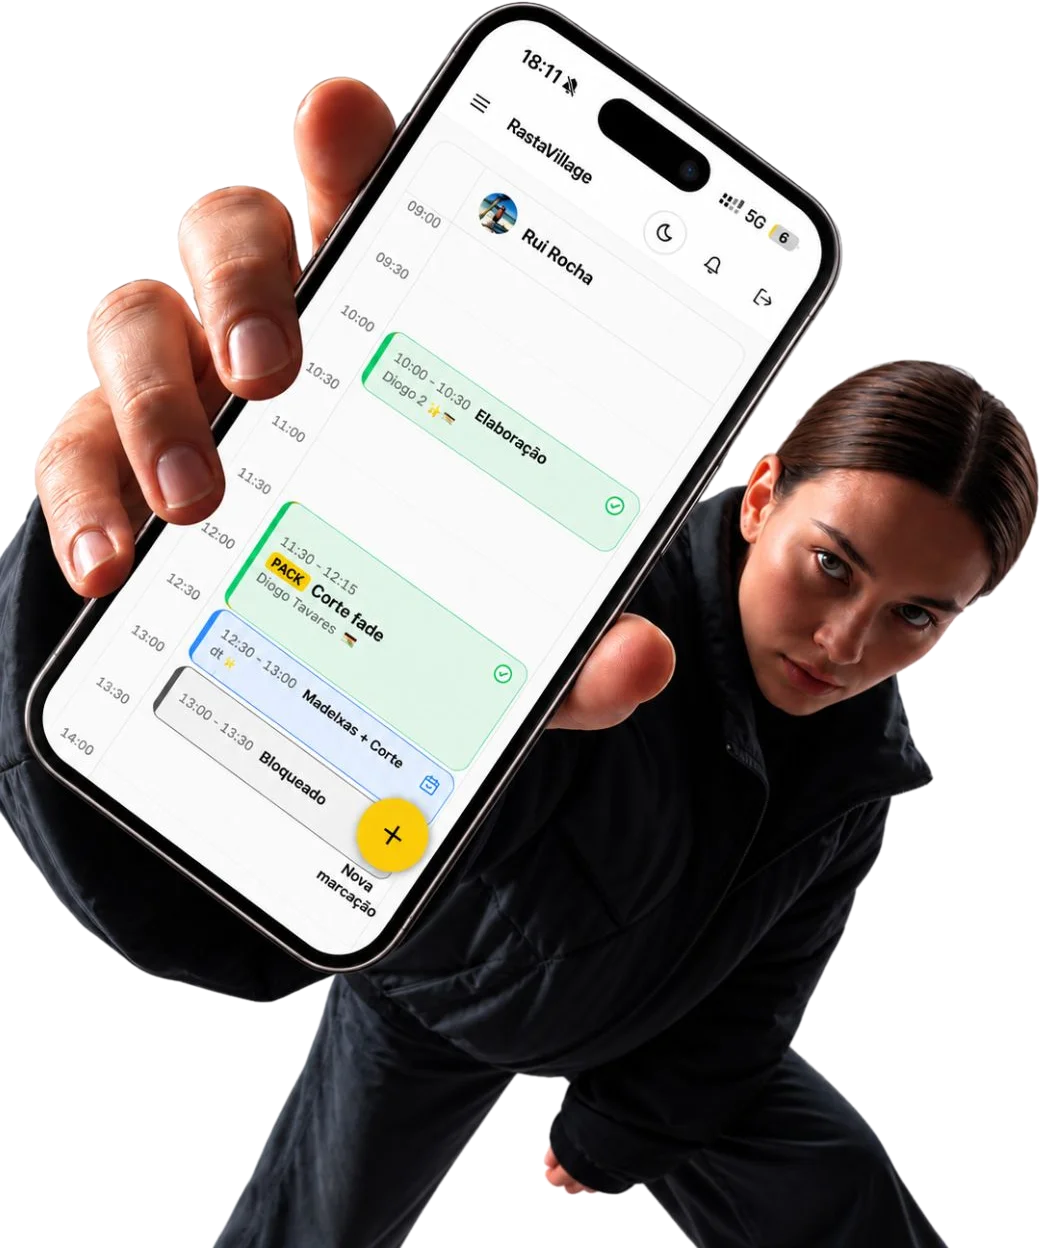
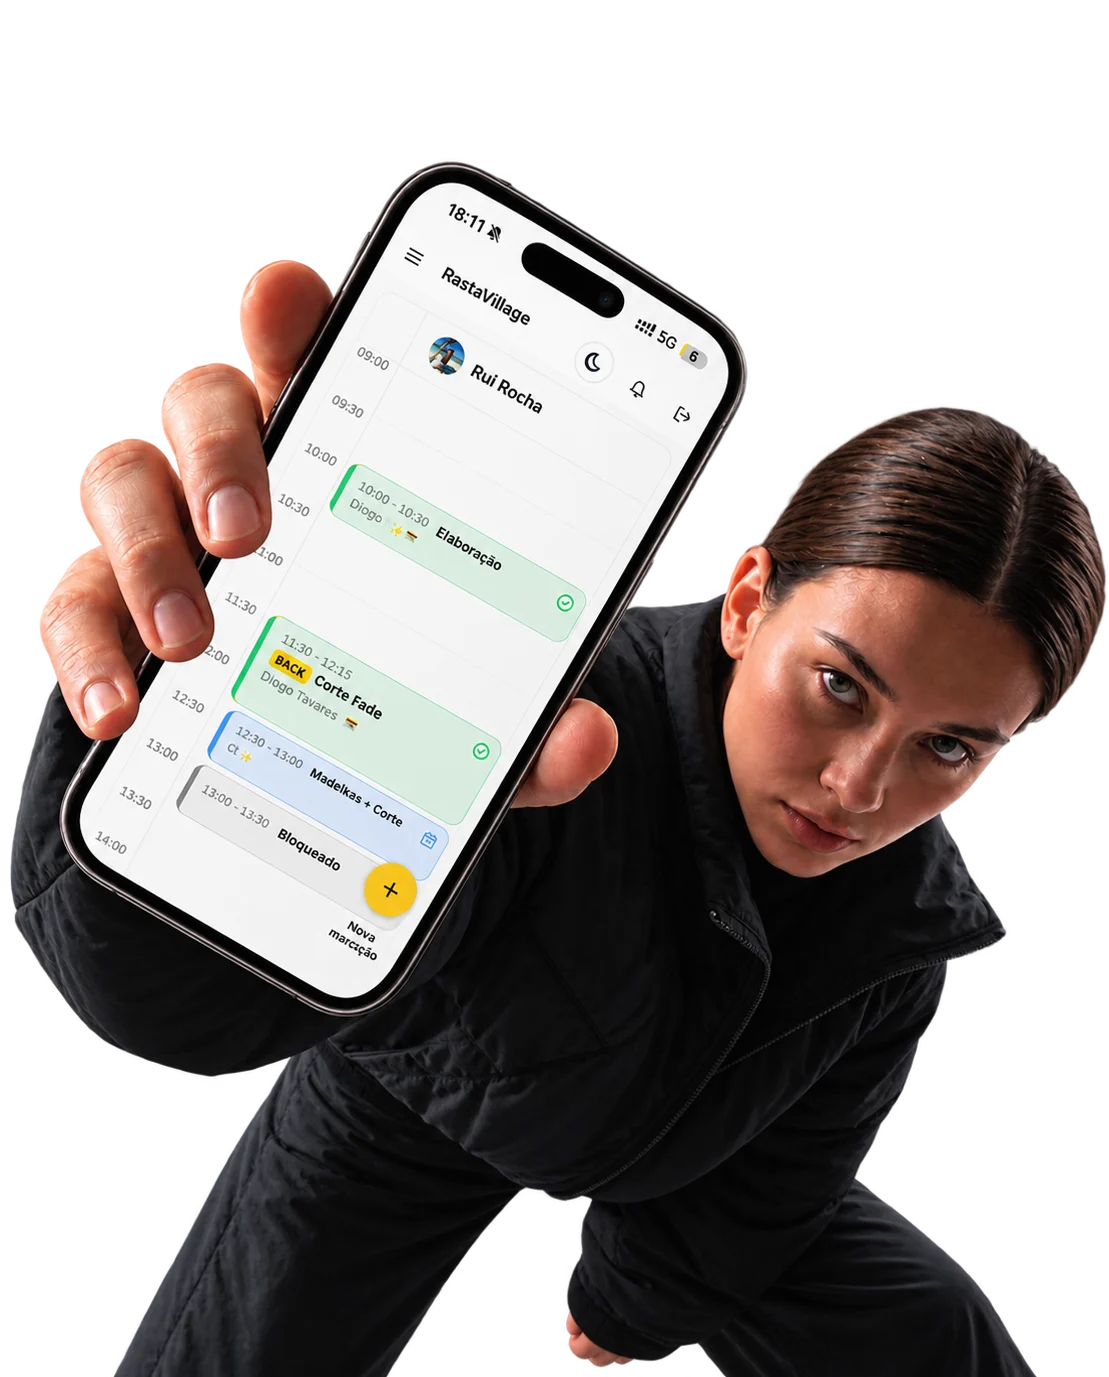
Começar e página inicial: sem saltos, sem repetições, a fotografia assente na linha
- /comecar: escolher o tipo volta ao topo do ecrã seguinte; «Dois tipos» pergunta os dois ali mesmo, por baixo dos cartões; ?tipo=misto (botão «Criar a conta com dois tipos») chega com essa pergunta aberta e à vista.
- Tirado o que se repetia (o +50 % três vezes, «Podes escolher outro», a garantia repetida no passo da conta) e o que já não era verdade (link de confirmação por email, «um mês à experiência»).
- Fotografia nova, recortada; a secção acaba nas pernas, em cima da linha dos Preços.
- Preços: três parágrafos por baixo dos dois tipos passam a uma linha.

Claude-Session: https://claude.ai/code/session_01ESiyGJ3vPYy4diqd7vefik

diff --git a/src/pages/Comecar.jsx b/src/pages/Comecar.jsx
@@ -1,8 +1,8 @@
-import React, { useMemo, useState } from 'react';
+import React, { useEffect, useMemo, useState } from 'react';
 import { useSearchParams, Link } from 'react-router-dom';
 import { ArrowRight, ArrowLeft, Check, Mail, AlertTriangle } from 'lucide-react';
 import Seo from '@/components/Seo';
-import { PLANOS, DESCONTO_ANUAL, ADICIONAL_SEGUNDO_NICHO_TEXTO } from '@/lib/seo';
+import { PLANOS, DESCONTO_ANUAL } from '@/lib/seo';
 import { VERSAO_ACORDO } from '@/lib/seo';
 import { supabase, temSupabase } from '@/lib/supabase';
 import PorqueConvecta, { textoRespostas } from '@/components/PorqueConvecta';
@@ -65,7 +65,7 @@ const TIPOS_NEGOCIO = [
   { v: 'cabeleireiro', l: 'Cabeleireiro', d: 'Cor, madeixas, brushing' },
   { v: 'unhas', l: 'Unhas, sobrancelhas e pestanas', d: 'Gel, manicure, extensões' },
   { v: 'estetica', l: 'Estética', d: 'Pele, massagens, depilação' },
-  { v: 'misto', l: 'Dois tipos no mesmo espaço', d: `Barbearia + estética, por exemplo · o segundo tipo é ${ADICIONAL_SEGUNDO_NICHO_TEXTO}` },
+  { v: 'misto', l: 'Dois tipos no mesmo espaço', d: 'Barbearia + estética, por exemplo' },
 ];
 
 const campo = {
@@ -107,12 +107,24 @@ export default function Comecar() {
   );
 
   const [barbearia, setBarbearia] = useState({ nome: '', telefone: '', morada: '', nif: '' });
-  const [tipo, setTipo] = useState('barbearia');
+  // ?tipo=misto (o botão «Criar a conta com dois tipos») chega com o misto
+  // escolhido e a pergunta «Quais são os dois?» aberta.
+  const [tipo, setTipo] = useState(params.get('tipo') === 'misto' ? 'misto' : 'barbearia');
   // Os dois lados de um espaço misto (tipo === 'misto').
   const [lados, setLados] = useState(['barbearia', 'estetica']);
   const misto = tipo === 'misto';
+  // Quem vem do botão «Criar a conta com dois tipos» vê logo a pergunta dos dois lados.
+  useEffect(() => {
+    if (params.get('tipo') !== 'misto') return;
+    const t = setTimeout(() => document.getElementById('dois-lados')?.scrollIntoView({ behavior: 'smooth', block: 'center' }), 250);
+    return () => clearTimeout(t);
+  }, []);
   const escolherLado = v => setLados(l => (l.includes(v) ? l.filter(x => x !== v) : [...l, v].slice(-2)));
-  const [tipoEscolhido, setTipoEscolhido] = useState(false);
+  const [tipoEscolhido, setTipoEscolhidoCru] = useState(false);
+  // Trocar de ecrã dentro do passo 1 (tipo → pessoas) volta ao topo: sem
+  // isto, quem tocava num cartão em baixo caía a meio do ecrã seguinte,
+  // com a pergunta lá em cima, fora de vista (12/10/2026).
+  const setTipoEscolhido = v => { setTipoEscolhidoCru(v); window.scrollTo?.({ top: 0, behavior: 'smooth' }); };
   const [conta, setConta] = useState({ nome: '', email: '', telefone: '', password: '' });
   // Aceitação dos Termos, da Privacidade e do acordo RGPD (art. 28.º).
   // Tem de ser um gesto da pessoa — uma caixa por marcar, não um texto.
@@ -429,21 +441,44 @@ export default function Comecar() {
             </p>
             <div style={{ display: 'grid', gridTemplateColumns: 'repeat(auto-fit, minmax(240px, 1fr))', gap: 12 }}>
               {TIPOS_NEGOCIO.map(t => (
-                <button key={t.v} type="button"
+                <button key={t.v} type="button" aria-pressed={misto && t.v === 'misto'}
                   onClick={() => {
-                    setTipo(t.v); setTipoEscolhido(true);
+                    setTipo(t.v);
                     try { window.trackEvent?.('comecar_tipo', { tipo: t.v }); } catch { /* sem analytics */ }
+                    // O misto ainda tem de dizer quais são os dois; os outros seguem já.
+                    if (t.v !== 'misto') setTipoEscolhido(true);
                   }}
                   style={{
                     textAlign: 'left', padding: '18px 18px', borderRadius: 14, cursor: 'pointer',
-                    fontFamily: 'inherit', border: '1px solid var(--cv-linha)', background: 'var(--cv-card)',
-                    color: 'var(--cv-ink)', display: 'flex', flexDirection: 'column', gap: 4, minHeight: 84,
+                    fontFamily: 'inherit', background: 'var(--cv-card)', color: 'var(--cv-ink)',
+                    border: `1px solid ${misto && t.v === 'misto' ? 'var(--cv-amarelo)' : 'var(--cv-linha)'}`,
+                    display: 'flex', flexDirection: 'column', gap: 4, minHeight: 84,
                   }}>
                   <span style={{ fontSize: 18, fontWeight: 700 }}>{t.l}</span>
                   <span style={{ fontSize: 14, opacity: .7 }}>{t.d}</span>
                 </button>
               ))}
             </div>
+            {misto && (
+              <div id="dois-lados" style={{ scrollMarginTop: 120, marginTop: 16, padding: 18, borderRadius: 14, border: '1px solid var(--cv-amarelo)', background: 'var(--cv-card)' }}>
+                <div style={{ fontSize: 16, fontWeight: 700, marginBottom: 12 }}>Quais são os dois?</div>
+                <div style={{ display: 'flex', flexWrap: 'wrap', gap: 8 }}>
+                  {TIPOS_NEGOCIO.filter(t => t.v !== 'misto').map(t => {
+                    const on = lados.includes(t.v);
+                    return (
+                      <button key={t.v} type="button" onClick={() => escolherLado(t.v)} aria-pressed={on}
+                        style={{ padding: '10px 14px', borderRadius: 999, cursor: 'pointer', fontFamily: 'inherit', fontSize: 14, fontWeight: on ? 700 : 500,
+                          border: `1px solid ${on ? 'var(--cv-amarelo)' : 'var(--cv-linha)'}`, background: on ? 'rgba(232,185,35,.14)' : 'transparent', color: 'var(--cv-ink)' }}>
+                        {on ? '✓ ' : ''}{t.l}
+                      </button>
+                    );
+                  })}
+                </div>
+                <Botao onClick={() => lados.length === 2 && setTipoEscolhido(true)} disabled={lados.length !== 2} style={{ marginTop: 16 }}>
+                  Continuar <ArrowRight size={17} />
+                </Botao>
+              </div>
+            )}
           </section>
         )}
 
@@ -453,33 +488,15 @@ export default function Comecar() {
             <button type="button" onClick={() => setTipoEscolhido(false)}
               style={{ background: 'none', border: 0, padding: 0, margin: '0 0 14px', cursor: 'pointer',
                 fontFamily: 'inherit', fontSize: 14, color: 'var(--cv-ink-2)', textDecoration: 'underline' }}>
-              {(TIPOS_NEGOCIO.find(t => t.v === tipo) || TIPOS_NEGOCIO[0]).l} · mudar
+              {misto
+                ? lados.map(v => TIPOS_NEGOCIO.find(t => t.v === v)?.l).filter(Boolean).join(' + ')
+                : (TIPOS_NEGOCIO.find(t => t.v === tipo) || TIPOS_NEGOCIO[0]).l} · mudar
             </button>
-            {misto && (
-              <div style={{ margin: '0 0 26px', padding: 16, borderRadius: 14, border: '1px solid var(--cv-linha)', background: 'var(--cv-card)' }}>
-                <div style={{ fontSize: 15, fontWeight: 700, marginBottom: 10 }}>Quais são os dois tipos?</div>
-                <div style={{ display: 'flex', flexWrap: 'wrap', gap: 8 }}>
-                  {TIPOS_NEGOCIO.filter(t => t.v !== 'misto').map(t => {
-                    const on = lados.includes(t.v);
-                    return (
-                      <button key={t.v} type="button" onClick={() => escolherLado(t.v)} aria-pressed={on}
-                        style={{ padding: '9px 14px', borderRadius: 999, cursor: 'pointer', fontFamily: 'inherit', fontSize: 14, fontWeight: on ? 700 : 500,
-                          border: `1px solid ${on ? 'var(--cv-amarelo)' : 'var(--cv-linha)'}`, background: on ? 'rgba(232,185,35,.14)' : 'transparent', color: 'var(--cv-ink)' }}>
-                        {on ? '✓ ' : ''}{t.l}
-                      </button>
-                    );
-                  })}
-                </div>
-                <div style={{ fontSize: 13, opacity: .75, marginTop: 10, lineHeight: 1.5 }}>
-                  O teu site ganha duas frentes e o painel gere cada lado à parte, com a mesma conta. O segundo tipo é {ADICIONAL_SEGUNDO_NICHO_TEXTO} sobre o plano.
-                </div>
-              </div>
-            )}
             <h1 style={{ fontSize: 30, lineHeight: 1.2, margin: '0 0 10px' }}>
               Quantas pessoas trabalham no teu negócio?
             </h1>
             <p style={{ fontSize: 15, opacity: .8, margin: '0 0 28px', lineHeight: 1.6 }}>
-              Contando contigo. É só isto que decide o plano — o resto da plataforma é igual nos três.
+              Contando contigo. É só isto que decide o plano.
             </p>
 
             <div style={{ display: 'flex', flexWrap: 'wrap', gap: 8, marginBottom: 28 }}>
@@ -521,7 +538,7 @@ export default function Comecar() {
               </div>
               {misto && (
                 <div style={{ fontSize: 14, opacity: .8, marginTop: 4 }}>
-                  {euros(periodo === 'anual' ? plano.precoMesAnual : plano.preco)} do plano {ADICIONAL_SEGUNDO_NICHO_TEXTO} pelo segundo tipo ({lados.map(v => TIPOS_NEGOCIO.find(t => t.v === v)?.l).filter(Boolean).join(' + ')}).
+                  {euros(periodo === 'anual' ? plano.precoMesAnual : plano.preco)} do plano + metade pelo segundo tipo.
                 </div>
               )}
               <div style={{ ...ajuda, marginTop: 8 }}>{plano.profissionaisTexto}. {plano.resumo}</div>
@@ -544,26 +561,6 @@ export default function Comecar() {
                 ))}
               </div>
 
-              {/* Quem chega por um plano pode querer outro: os planos so
-                  diferem no numero de profissionais, e o tamanho da equipa
-                  e coisa que ele sabe melhor do que nos. */}
-              <div style={{ ...ajuda, marginTop: 14 }}>
-                Podes escolher outro:{' '}
-                {PLANOS.filter(p => p.id !== planoId).map((p, i) => (
-                  <React.Fragment key={p.id}>
-                    {i > 0 && ' · '}
-                    <button
-                      onClick={() => setPlanoEscolhido(p.id)}
-                      style={{
-                        background: 'none', border: 'none', padding: 0, cursor: 'pointer',
-                        font: 'inherit', textDecoration: 'underline', color: 'inherit',
-                      }}
-                    >
-                      {p.nome}
-                    </button>
-                  </React.Fragment>
-                ))}
-              </div>
             </div>
 
             <Botao onClick={() => avancar(2)} style={{ marginTop: 28 }}>
@@ -641,7 +638,6 @@ export default function Comecar() {
                 <label style={rotulo}>Email *</label>
                 <input style={campo} type="email" value={conta.email} placeholder="rui@exemplo.pt"
                        autoComplete="email" onChange={e => c('email', e.target.value)} />
-                <div style={ajuda}>Vamos enviar-te um link de confirmação para aqui.</div>
               </div>
               <div>
                 <label style={rotulo}>Telemóvel *</label>
@@ -666,9 +662,8 @@ export default function Comecar() {
               <div style={{ display: 'flex', gap: 10, alignItems: 'flex-start' }}>
                 <Check size={18} style={{ color: 'var(--cv-amarelo)', flexShrink: 0, marginTop: 2 }} />
                 <div>
-                  <strong>Hoje não pagas nada.</strong> Criar a conta é grátis e o cartão
-                  só é pedido lá dentro, depois de veres o painel montado. É um mês à
-                  experiência, e cancelas sozinho se não gostares.
+                  <strong>Hoje não pagas nada.</strong> O cartão só é pedido lá dentro,
+                  depois de veres o painel montado.
                 </div>
               </div>
             </div>

diff --git a/src/index.css b/src/index.css
@@ -1754,17 +1754,20 @@ html, body {
 /* ── As duas portas para a demonstração ────────────────────────────────── */
 /* Montar o meu negócio: o apelo com a fotografia (AcessoTotal.jsx). */
 /* Sem caixa: a fotografia e recortada (fundo transparente) e assenta no fundo da pagina. */
-.mn { position: relative; display: grid; grid-template-columns: minmax(0, 1.05fr) minmax(0, 1fr); align-items: center; gap: 24px; margin-top: 56px; padding: 24px 0 0; }
-.mn-texto { padding-bottom: 24px; }
+.mn { position: relative; display: grid; grid-template-columns: minmax(0, 1.05fr) minmax(0, 1fr); align-items: center; gap: 24px; margin-top: 0; padding: 0; }
+/* A secção acaba onde acabam as pernas: a fotografia está cortada em baixo
+   e assenta na linha que separa esta secção dos Preços. */
+#o-que-tens.cv-sec { padding-bottom: 0; }
+.mn-texto { padding-bottom: 84px; }
 .mn-titulo { font-family: var(--font-heading); font-size: clamp(2.4rem, 5.2vw, 4.4rem); line-height: 1.02; letter-spacing: -0.02em; margin: 14px 0 18px; color: var(--cv-ink); text-wrap: balance; }
 .mn-sub { max-width: 34ch; margin: 0 0 28px; }
 .mn-accoes { display: flex; align-items: center; gap: 22px; flex-wrap: wrap; }
 .mn-ver { display: inline-flex; align-items: center; gap: 6px; color: var(--cv-ink-2); font-weight: 600; text-decoration: none; border-bottom: 1px solid var(--cv-linha); }
 .mn-ver:hover { color: var(--cv-ink); }
-.mn-foto { display: block; width: 100%; max-width: 540px; height: auto; justify-self: end; align-self: end; filter: drop-shadow(0 30px 40px rgba(0,0,0,.14)); }
+.mn-foto { display: block; width: 100%; max-width: 540px; height: auto; justify-self: end; align-self: end; margin-bottom: -1px; }
 @media (max-width: 860px) {
   .mn { grid-template-columns: 1fr; padding: 16px 0 0; gap: 8px; }
-  .mn-texto { padding-bottom: 8px; }
+  .mn-texto { padding-bottom: 12px; }
   .mn-foto { max-width: 420px; justify-self: center; }
 }
 .at-portas { display: grid; grid-template-columns: minmax(0, 1fr) minmax(0, 1fr); gap: 16px; margin-top: 56px; }

diff --git a/src/components/PricingSection.jsx b/src/components/PricingSection.jsx
@@ -241,25 +241,11 @@ export default function PricingSection({ nivelTitulo = "h2" }) {
         {/* Os dois tipos no mesmo espaço: secção própria a seguir aos planos (DoisTipos.jsx). */}
         <DoisTipos />
 
-        {/* A ancora. 19,99 € e abstracto; "um corte por mes" e uma conta que
-            qualquer barbeiro faz de cabeca — e que lhe da razao para pagar. */}
-        <p style={{ textAlign: "center", fontSize: "1.02rem", fontWeight: 600, color: "var(--cv-ink)", margin: "26px 0 0" }}>
-          Paga-se com uma marcação por mês. As outras são todas tuas.
-        </p>
-        <p style={{ textAlign: "center", fontSize: "0.95rem", color: "var(--cv-ink-3)", margin: "10px 0 0" }}>
-          Preço por negócio e final: a Convecta está no regime de isenção de IVA
-          (art. 53.º do CIVA), por isso não acresce IVA à fatura.
-          Sem comissões por marcação e sem taxa de adesão.
-        </p>
-
-        {/* Uma linha, e nao um bloco de treze. Quem quiser a lista toda
-            carrega e ve a pagina que existe para isso. */}
-        <p style={{ textAlign: "center", fontSize: "1.0625rem", color: "var(--cv-ink-2)",
-          margin: "30px auto 0", maxWidth: 620, lineHeight: 1.6 }}>
-          Os tres planos tem a plataforma completa. O que muda e quantos profissionais cabem.{" "}
-          <Link to="/funcionalidades" style={{ color: "var(--cv-ink)", borderBottom: "1px solid var(--cv-linha)" }}>
-            Ver tudo o que faz
-          </Link>.
+        {/* Eram três parágrafos (a âncora, o IVA, «os três planos têm tudo») —
+            o Diogo achou confuso, e «os três planos» já está no topo da
+            secção. Fica uma linha pequena com o que é obrigatório dizer. */}
+        <p style={{ textAlign: "center", fontSize: "0.9rem", color: "var(--cv-ink-3)", margin: "56px auto 0", maxWidth: 640, lineHeight: 1.6 }}>
+          Preço final, sem IVA a acrescer (art. 53.º do CIVA) · sem comissões por marcação · sem taxa de adesão
         </p>
 
         <div className="pr-garantias">

diff --git a/src/components/AcessoTotal.jsx b/src/components/AcessoTotal.jsx
@@ -29,7 +29,7 @@ export default function AcessoTotal() {
             </div>
           </div>
           <img className="mn-foto" src="/montar-o-meu-negocio.webp" srcSet="/montar-o-meu-negocio-540.webp 540w, /montar-o-meu-negocio.webp 1080w"
-            sizes="(max-width: 720px) 90vw, 520px" width="1040" height="1248" loading="lazy"
+            sizes="(max-width: 720px) 90vw, 520px" width="1109" height="1377" loading="lazy"
             alt="Uma profissional a mostrar a agenda do dia no painel da Convecta, no telemóvel" />
         </div>
       </ScrollReveal>

diff --git a/src/components/DoisTipos.jsx b/src/components/DoisTipos.jsx
@@ -51,7 +51,7 @@ export default function DoisTipos() {
         No painel geres cada lado à parte, com a mesma conta.
       </p>
       <div style={{ textAlign: "center", marginTop: 26 }}>
-        <Link to="/comecar" className="dt-cta">Criar a conta com dois tipos <ArrowRight size={18} /></Link>
+        <Link to="/comecar?tipo=misto" className="dt-cta">Criar a conta com dois tipos <ArrowRight size={18} /></Link>
       </div>
     </section>
   );
